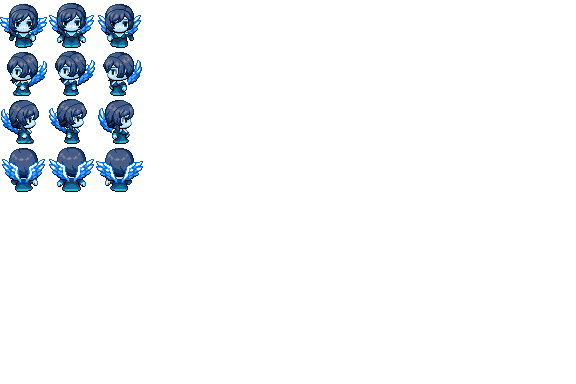
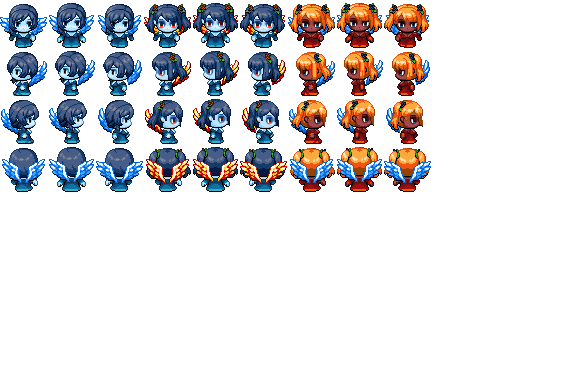
added Water Elemental EX and Tideflame Headpiece
also, cleansing items now runs their creation eval

Changed region(s): [[0.25, 0.0, 0.75, 0.5]]

diff --git a/js/plugins/YEP_X_ItemUpgradeSlots.js b/js/plugins/YEP_X_ItemUpgradeSlots.js
@@ -809,6 +809,7 @@ ItemManager.effectIUSResetStat = function(item, stat) {
         var id = item.id;
         var item = JsonEx.makeDeepCopy(baseItem);
         item.id = id;
+        ItemManager.onCreationEval(baseItem, item);
         DataManager.getDatabase(baseItem)[id] = item;
         ItemManager.setNewIndependentItem(baseItem, item);
         DataManager.getContainer(item)[id - Yanfly.Param.ItemStartingId - 1] = item;

diff --git a/CHANGELOG.md b/CHANGELOG.md
@@ -17,14 +17,16 @@ INTRO TEXT
 - 2 new items:
   - Phantasmal Charm
   - [REDACTED HELMET]
-- 3 new equipment:
+- 4 new equipment:
   - Soulstealer's Necklace
   - Soul Shackles (Tome)
   - [REDACTED RESISTANCE]
-- 3 new enemies:
+  - Tideflame Headpiece
+- 4 new enemies:
   - Tortured Soul
   - Will o' Wisp
   - [REDACTED GENERAL]
+  - [REDACTED EX]
 
 ### Changes
 -
